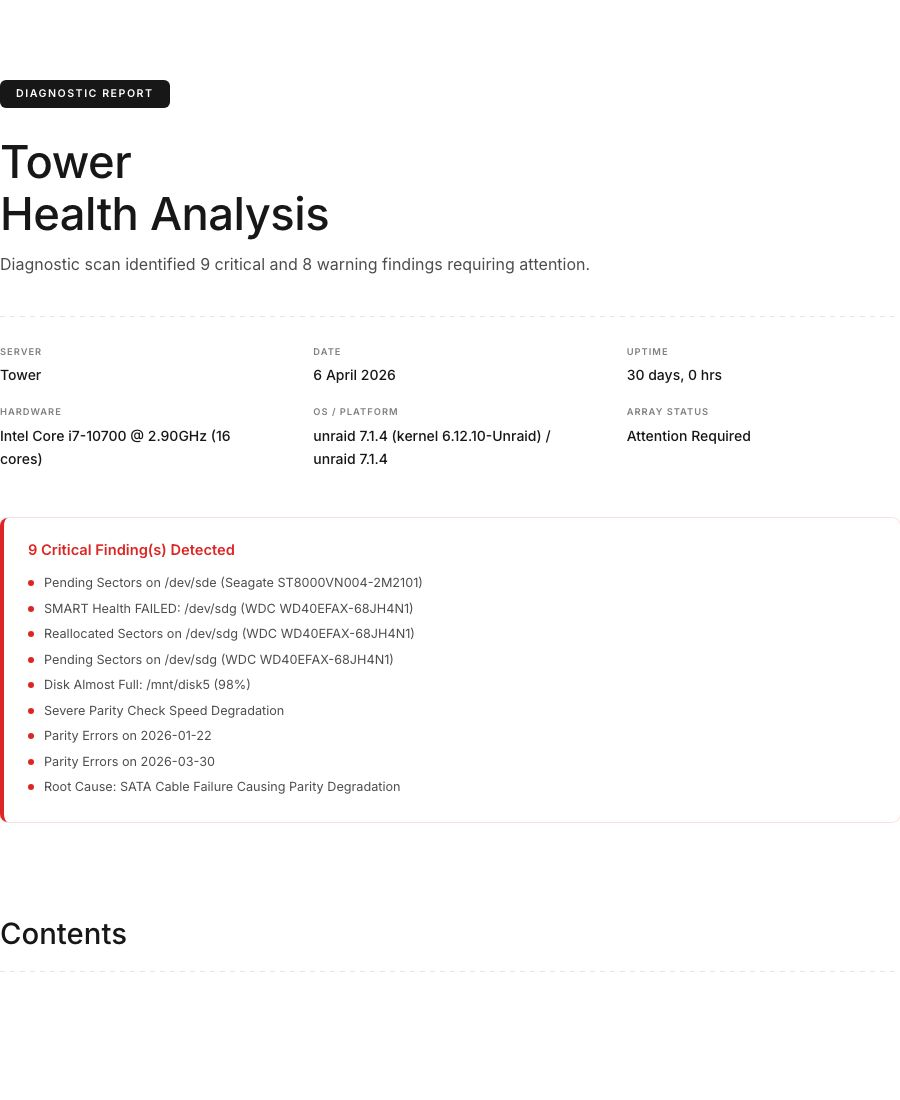
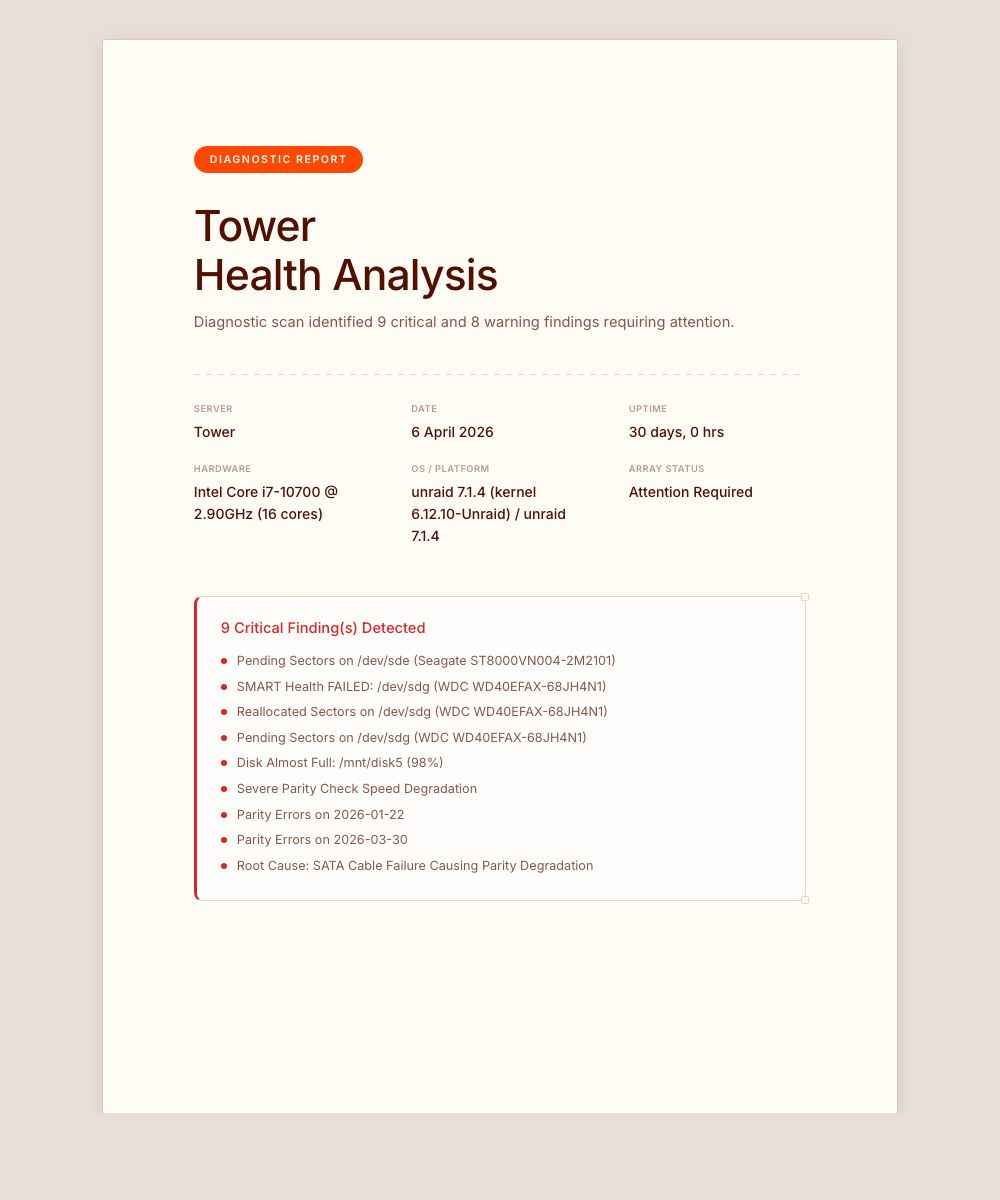
Report export: CF Workers design system overhaul
- Background: warm off-white #FFFBF5 (CF Workers palette)
- Colors: CF orange accent, warm brown text #521000, tan borders #EBD5C1
- Finding cards: NO left-border slit, full CF border with corner brackets,
  severity shown as inline rounded pill badge in header row
- Tables: warm header bg #FEF7ED, visible cell borders, CF border color
- A4 page preview: each section in a page div with proper margins (28mm/24mm),
  shadow, and warm gray outer background for realistic print preview
- All separators use CF Workers dashed border pattern (12px dash)
- Code blocks use CF Workers dark warm tone (#1a1209)
- Cover badge uses CF orange rounded pill instead of dark rectangle
- Print mode strips page wrapper for clean PDF output

diff --git a/internal/api/report.go b/internal/api/report.go
@@ -221,33 +221,55 @@ func GenerateReport(snap *internal.Snapshot) string {
 	b.WriteString("</style>\n")
 	b.WriteString("</head>\n<body>\n")
 
+	// A4 page wrapper for screen preview
+	b.WriteString("<div class=\"page-container\">\n")
+
 	// ── Cover Page ───────────────────────────────────────────────────
+	b.WriteString("<div class=\"page\">\n")
 	writeCoverPage(&b, snap)
+	b.WriteString("</div>\n")
 
 	// ── Table of Contents ────────────────────────────────────────────
+	b.WriteString("<div class=\"page\">\n")
 	writeTOC(&b, snap)
+	b.WriteString("</div>\n")
 
 	// ── System Overview ──────────────────────────────────────────────
+	b.WriteString("<div class=\"page\">\n")
 	writeSystemOverview(&b, snap)
+	b.WriteString("</div>\n")
 
 	// ── Findings ─────────────────────────────────────────────────────
+	b.WriteString("<div class=\"page\">\n")
 	writeFindings(&b, snap)
+	b.WriteString("</div>\n")
 
 	// ── Drive Health & SMART ─────────────────────────────────────────
+	b.WriteString("<div class=\"page\">\n")
 	writeSMART(&b, snap)
+	b.WriteString("</div>\n")
 
 	// ── Docker & Application Analysis ────────────────────────────────
+	b.WriteString("<div class=\"page\">\n")
 	writeDocker(&b, snap)
+	b.WriteString("</div>\n")
 
 	// ── Parity Analysis ──────────────────────────────────────────────
+	b.WriteString("<div class=\"page\">\n")
 	writeParity(&b, snap)
+	b.WriteString("</div>\n")
 
 	// ── Recommended Actions ──────────────────────────────────────────
+	b.WriteString("<div class=\"page\">\n")
 	writeActions(&b, snap)
+	b.WriteString("</div>\n")
 
 	// ── Footer ───────────────────────────────────────────────────────
+	b.WriteString("<div class=\"page\">\n")
 	writeFooter(&b, snap)
+	b.WriteString("</div>\n")
 
+	b.WriteString("</div>\n") // close .page-container
 	b.WriteString("</body>\n</html>")
 	return b.String()
 }
@@ -258,151 +280,160 @@ func GenerateReport(snap *internal.Snapshot) string {
 
 func writeCSS(b *strings.Builder) {
 	b.WriteString("@import url('https://fonts.googleapis.com/css2?family=Inter:wght@300;400;500;600;700;800&display=swap');\n")
-	b.WriteString("@page { size: A4; margin: 22mm 20mm 28mm 20mm; }\n")
+	b.WriteString("@page { size: A4; margin: 20mm; }\n")
 	b.WriteString("*, *::before, *::after { box-sizing: border-box; margin: 0; padding: 0; }\n")
 
-	// Clean theme palette — matching app's Clean theme + CF Workers design system
+	// CF Workers Design System palette
 	b.WriteString(":root {\n")
-	b.WriteString("  --text: #171717; --text-muted: #4d4d4d; --text-subtle: #808080; --text-faint: #b3b3b3;\n")
-	b.WriteString("  --bg: #ffffff; --bg-card: #ffffff; --bg-hover: #fafafa;\n")
-	b.WriteString("  --border: rgba(0,0,0,0.08); --border-solid: #e5e5e5;\n")
-	b.WriteString("  --red: #dc2626; --red-bg: rgba(220,38,38,0.06); --red-border: rgba(220,38,38,0.15);\n")
-	b.WriteString("  --amber: #d97706; --amber-bg: rgba(217,119,6,0.06); --amber-border: rgba(217,119,6,0.15);\n")
-	b.WriteString("  --green: #16a34a; --green-bg: rgba(22,163,74,0.06); --green-border: rgba(22,163,74,0.15);\n")
-	b.WriteString("  --blue: #0072f5; --blue-bg: rgba(0,114,245,0.06); --blue-border: rgba(0,114,245,0.15);\n")
+	b.WriteString("  --cf-orange: #FF4801;\n")
+	b.WriteString("  --cf-orange-hover: #FF7038;\n")
+	b.WriteString("  --cf-orange-light: rgba(255, 72, 1, 0.08);\n")
+	b.WriteString("  --cf-text: #521000;\n")
+	b.WriteString("  --cf-text-muted: rgba(82, 16, 0, 0.7);\n")
+	b.WriteString("  --cf-text-subtle: rgba(82, 16, 0, 0.4);\n")
+	b.WriteString("  --cf-bg: #FFFBF5;\n")
+	b.WriteString("  --cf-bg-card: #FFFDFB;\n")
+	b.WriteString("  --cf-bg-hover: #FEF7ED;\n")
+	b.WriteString("  --cf-border: #EBD5C1;\n")
+	b.WriteString("  --cf-border-light: rgba(235, 213, 193, 0.5);\n")
+	b.WriteString("  --red: #dc2626; --amber: #d97706; --green: #16a34a; --blue: #0072f5;\n")
 	b.WriteString("}\n")
 
-	// Body — Clean theme
-	b.WriteString("body { font-family: 'Inter', -apple-system, BlinkMacSystemFont, 'Segoe UI', sans-serif; font-size: 9.5pt; color: var(--text); background: var(--bg); line-height: 1.65; -webkit-font-smoothing: antialiased; }\n")
+	// Body — CF Workers warm background
+	b.WriteString("body { font-family: 'Inter', -apple-system, BlinkMacSystemFont, 'Segoe UI', sans-serif; font-size: 9.5pt; color: var(--cf-text); background: #e8e0d8; line-height: 1.6; -webkit-font-smoothing: antialiased; }\n")
+
+	// ── A4 page preview (screen only) ──
+	b.WriteString(".page-container { display: flex; flex-direction: column; align-items: center; padding: 40px 0; gap: 40px; }\n")
+	b.WriteString(".page { background: var(--cf-bg); width: 210mm; min-height: 297mm; padding: 28mm 24mm; box-shadow: 0 2px 20px rgba(82,16,0,0.12), 0 0 0 1px rgba(82,16,0,0.06); border-radius: 2px; position: relative; }\n")
 
 	// Page numbers (print)
-	b.WriteString("@page { @bottom-center { font-family: 'Inter', sans-serif; font-size: 7.5pt; color: var(--text-subtle); content: 'Page ' counter(page) ' of ' counter(pages); } }\n")
+	b.WriteString("@page { @bottom-center { font-family: 'Inter', sans-serif; font-size: 7.5pt; color: var(--cf-text-subtle); content: 'Page ' counter(page) ' of ' counter(pages); } }\n")
 
-	// Dashed separator utility (CF Workers style)
-	b.WriteString(".dashed-sep { height: 1px; background-image: linear-gradient(to right, var(--border-solid) 50%, transparent 50%); background-size: 10px 1px; background-repeat: repeat-x; }\n")
+	// Dashed separator utility (CF Workers signature)
+	b.WriteString(".dashed-sep { height: 1px; background-image: linear-gradient(to right, var(--cf-border) 50%, transparent 50%); background-size: 12px 1px; background-repeat: repeat-x; }\n")
 
 	// ── Cover page ──
-	b.WriteString(".cover { page-break-after: always; padding: 80px 0 40px; }\n")
-	b.WriteString(".cover-badge { display: inline-block; font-size: 8pt; font-weight: 600; text-transform: uppercase; letter-spacing: 1.5px; background: var(--text); color: #fff; padding: 5px 16px; border-radius: 6px; margin-bottom: 28px; }\n")
-	b.WriteString(".cover h1 { font-size: 34pt; font-weight: 500; line-height: 1.15; color: var(--text); margin-bottom: 12px; white-space: pre-line; letter-spacing: -0.5px; }\n")
-	b.WriteString(".cover-subtitle { font-size: 12pt; font-weight: 400; color: var(--text-muted); margin-bottom: 40px; line-height: 1.5; }\n")
-	// Dashed top border on meta grid (CF Workers style)
+	b.WriteString(".cover { padding: 0; }\n")
+	b.WriteString(".cover-badge { display: inline-block; font-size: 8pt; font-weight: 600; text-transform: uppercase; letter-spacing: 1.5px; background: var(--cf-orange); color: #fff; padding: 5px 16px; border-radius: 9999px; margin-bottom: 28px; }\n")
+	b.WriteString(".cover h1 { font-size: 32pt; font-weight: 500; line-height: 1.15; color: var(--cf-text); margin-bottom: 12px; white-space: pre-line; letter-spacing: -0.02em; }\n")
+	b.WriteString(".cover-subtitle { font-size: 11pt; font-weight: 400; color: var(--cf-text-muted); margin-bottom: 40px; line-height: 1.6; }\n")
+	// Dashed top border on meta grid
 	b.WriteString(".cover-meta { display: grid; grid-template-columns: 1fr 1fr 1fr; gap: 18px 40px; padding-top: 28px; margin-bottom: 48px; position: relative; }\n")
-	b.WriteString(".cover-meta::before { content: ''; position: absolute; top: 0; left: 0; right: 0; height: 1px; background-image: linear-gradient(to right, var(--border-solid) 50%, transparent 50%); background-size: 10px 1px; background-repeat: repeat-x; }\n")
-	b.WriteString(".cover-meta-item { }\n")
-	b.WriteString(".cover-meta-label { font-size: 7pt; font-weight: 600; text-transform: uppercase; letter-spacing: 1px; color: var(--text-subtle); margin-bottom: 4px; }\n")
-	b.WriteString(".cover-meta-value { font-size: 10.5pt; font-weight: 500; color: var(--text); }\n")
+	b.WriteString(".cover-meta::before { content: ''; position: absolute; top: 0; left: 0; right: 0; height: 1px; background-image: linear-gradient(to right, var(--cf-border) 50%, transparent 50%); background-size: 12px 1px; background-repeat: repeat-x; }\n")
+	b.WriteString(".cover-meta-label { font-size: 7pt; font-weight: 600; text-transform: uppercase; letter-spacing: 0.05em; color: var(--cf-text-subtle); margin-bottom: 4px; }\n")
+	b.WriteString(".cover-meta-value { font-size: 10.5pt; font-weight: 500; color: var(--cf-text); }\n")
 
-	// Cover summary box — Clean theme card style with severity left border
-	b.WriteString(".cover-summary { padding: 20px 24px; border-radius: 8px; margin-top: 24px; position: relative; }\n")
-	b.WriteString(".cover-summary-critical { background: var(--bg); box-shadow: 0 0 0 1px var(--red-border); border-left: 4px solid var(--red); }\n")
-	b.WriteString(".cover-summary-warning { background: var(--bg); box-shadow: 0 0 0 1px var(--amber-border); border-left: 4px solid var(--amber); }\n")
-	b.WriteString(".cover-summary-healthy { background: var(--bg); box-shadow: 0 0 0 1px var(--green-border); border-left: 4px solid var(--green); }\n")
+	// Cover summary box — CF Workers card with border + corner brackets
+	b.WriteString(".cover-summary { padding: 20px 24px; border-radius: 8px; margin-top: 24px; border: 1px solid var(--cf-border); background: var(--cf-bg-card); position: relative; }\n")
+	// Corner brackets on summary box
+	b.WriteString(".cover-summary::before, .cover-summary::after { content: ''; position: absolute; width: 8px; height: 8px; border-radius: 1.5px; background: var(--cf-bg); border: 1px solid var(--cf-border); }\n")
+	b.WriteString(".cover-summary::before { top: -4px; right: -4px; }\n")
+	b.WriteString(".cover-summary::after { bottom: -4px; right: -4px; }\n")
+	b.WriteString(".cover-summary-critical { border-left: 3px solid var(--red); }\n")
+	b.WriteString(".cover-summary-warning { border-left: 3px solid var(--amber); }\n")
+	b.WriteString(".cover-summary-healthy { border-left: 3px solid var(--green); }\n")
 	b.WriteString(".cover-summary-critical h3 { color: var(--red); }\n")
 	b.WriteString(".cover-summary-warning h3 { color: var(--amber); }\n")
 	b.WriteString(".cover-summary-healthy h3 { color: var(--green); }\n")
-	b.WriteString(".cover-summary h3 { font-size: 11pt; font-weight: 600; margin-bottom: 10px; }\n")
+	b.WriteString(".cover-summary h3 { font-size: 11pt; font-weight: 500; margin-bottom: 10px; }\n")
 	b.WriteString(".cover-summary ul { list-style: none; padding-left: 0; font-size: 9.5pt; line-height: 1.7; }\n")
-	b.WriteString(".cover-summary li { margin-bottom: 4px; padding-left: 16px; position: relative; color: var(--text-muted); }\n")
+	b.WriteString(".cover-summary li { margin-bottom: 4px; padding-left: 16px; position: relative; color: var(--cf-text-muted); }\n")
 	b.WriteString(".cover-summary-critical li::before { content: ''; position: absolute; left: 0; top: 8px; width: 6px; height: 6px; border-radius: 50%; background: var(--red); }\n")
 	b.WriteString(".cover-summary-warning li::before { content: ''; position: absolute; left: 0; top: 8px; width: 6px; height: 6px; border-radius: 50%; background: var(--amber); }\n")
 	b.WriteString(".cover-summary-healthy li::before { content: ''; position: absolute; left: 0; top: 8px; width: 6px; height: 6px; border-radius: 50%; background: var(--green); }\n")
 
-	// ── Section headings — Clean theme: lighter weight, dashed bottom border ──
-	b.WriteString("h2.section-heading { font-size: 18pt; font-weight: 500; color: var(--text); padding-bottom: 14px; margin: 44px 0 24px; page-break-after: avoid; letter-spacing: -0.3px; position: relative; }\n")
-	b.WriteString("h2.section-heading::after { content: ''; position: absolute; bottom: 0; left: 0; right: 0; height: 1px; background-image: linear-gradient(to right, var(--border-solid) 50%, transparent 50%); background-size: 10px 1px; background-repeat: repeat-x; }\n")
-	b.WriteString("h2.section-heading .section-num { color: var(--text); margin-right: 6px; font-weight: 600; }\n")
-	// Severity badges — pill style matching Clean theme
-	b.WriteString("h2.section-heading .sev-badge { font-size: 7.5pt; font-weight: 600; text-transform: uppercase; padding: 2px 10px; border-radius: 9999px; margin-left: 14px; vertical-align: middle; letter-spacing: 0.4px; }\n")
-	b.WriteString(".sev-badge.sev-critical { background: var(--red-bg); color: var(--red); }\n")
-	b.WriteString(".sev-badge.sev-warning { background: var(--amber-bg); color: var(--amber); }\n")
-	b.WriteString(".sev-badge.sev-info { background: var(--blue-bg); color: var(--blue); }\n")
-	b.WriteString(".sev-badge.sev-ok { background: var(--green-bg); color: var(--green); }\n")
+	// ── Section headings — dashed bottom border ──
+	b.WriteString("h2.section-heading { font-size: 18pt; font-weight: 500; color: var(--cf-text); padding-bottom: 14px; margin: 0 0 24px; page-break-after: avoid; letter-spacing: -0.02em; position: relative; }\n")
+	b.WriteString("h2.section-heading::after { content: ''; position: absolute; bottom: 0; left: 0; right: 0; height: 1px; background-image: linear-gradient(to right, var(--cf-border) 50%, transparent 50%); background-size: 12px 1px; background-repeat: repeat-x; }\n")
+	b.WriteString("h2.section-heading .section-num { color: var(--cf-text); margin-right: 6px; font-weight: 500; }\n")
+	// Severity badges — CF Workers rounded pill, no left-border slit
+	b.WriteString("h2.section-heading .sev-badge { font-size: 7.5pt; font-weight: 600; text-transform: uppercase; padding: 3px 12px; border-radius: 9999px; margin-left: 14px; vertical-align: middle; letter-spacing: 0.04em; border: 1px solid; }\n")
+	b.WriteString(".sev-badge.sev-critical { background: rgba(220,38,38,0.08); color: var(--red); border-color: rgba(220,38,38,0.2); }\n")
+	b.WriteString(".sev-badge.sev-warning { background: rgba(217,119,6,0.08); color: var(--amber); border-color: rgba(217,119,6,0.2); }\n")
+	b.WriteString(".sev-badge.sev-info { background: rgba(0,114,245,0.08); color: var(--blue); border-color: rgba(0,114,245,0.2); }\n")
+	b.WriteString(".sev-badge.sev-ok { background: rgba(22,163,74,0.08); color: var(--green); border-color: rgba(22,163,74,0.2); }\n")
 
 	// Sub-headings
-	b.WriteString("h3.sub-heading { font-size: 12pt; font-weight: 600; color: var(--text); margin: 24px 0 14px; }\n")
+	b.WriteString("h3.sub-heading { font-size: 12pt; font-weight: 500; color: var(--cf-text); margin: 24px 0 14px; }\n")
 
-	// ── Tables — Clean theme style: light header, box-shadow border, rounded ──
-	b.WriteString(".table-wrap { margin-bottom: 24px; border-radius: 8px; overflow: hidden; box-shadow: 0 0 0 1px var(--border); }\n")
+	// ── Tables — CF Workers: border, light warm header, rounded ──
+	b.WriteString(".table-wrap { margin-bottom: 24px; border-radius: 8px; overflow: hidden; border: 1px solid var(--cf-border); }\n")
 	b.WriteString("table { width: 100%; border-collapse: collapse; font-size: 9pt; table-layout: auto; }\n")
-	b.WriteString("thead th { background: var(--bg-hover); color: var(--text-subtle); font-size: 7.5pt; font-weight: 500; text-transform: uppercase; letter-spacing: 0.5px; padding: 10px 12px; text-align: left; white-space: nowrap; border-bottom: 1px solid var(--border); }\n")
-	b.WriteString("tbody td { padding: 10px 12px; border-bottom: 1px solid rgba(0,0,0,0.04); font-size: 9pt; color: var(--text); }\n")
+	b.WriteString("thead th { background: var(--cf-bg-hover); color: var(--cf-text-muted); font-size: 7.5pt; font-weight: 500; text-transform: uppercase; letter-spacing: 0.05em; padding: 10px 14px; text-align: left; white-space: nowrap; border-bottom: 1px solid var(--cf-border); }\n")
+	b.WriteString("thead th:not(:last-child) { border-right: 1px solid var(--cf-border-light); }\n")
+	b.WriteString("tbody td { padding: 10px 14px; border-bottom: 1px solid var(--cf-border-light); font-size: 9pt; color: var(--cf-text-muted); }\n")
+	b.WriteString("tbody td:not(:last-child) { border-right: 1px solid var(--cf-border-light); }\n")
 	b.WriteString("tbody tr:last-child td { border-bottom: none; }\n")
-	b.WriteString(".table-dense { font-size: 8pt; }\n")
-	b.WriteString(".table-dense td, .table-dense th { padding: 8px 10px; }\n")
 	b.WriteString(".td-truncate { max-width: 160px; overflow: hidden; text-overflow: ellipsis; white-space: nowrap; }\n")
 
-	// ── Finding cards — Clean theme: white bg, box-shadow outline, corner brackets, severity left border ──
-	b.WriteString(".finding-card { border-radius: 8px; padding: 18px 22px; margin-bottom: 16px; page-break-inside: avoid; background: var(--bg); box-shadow: 0 0 0 1px var(--border); position: relative; }\n")
-	b.WriteString(".finding-card.sev-critical { border-left: 4px solid var(--red); }\n")
-	b.WriteString(".finding-card.sev-warning { border-left: 4px solid var(--amber); }\n")
-	b.WriteString(".finding-card.sev-info { border-left: 4px solid var(--blue); }\n")
-	b.WriteString(".finding-card.sev-ok { border-left: 4px solid var(--green); }\n")
-	// Corner brackets (CF Workers / Clean theme decorative element)
-	b.WriteString(".finding-card::before, .finding-card::after { content: ''; position: absolute; width: 7px; height: 7px; border-radius: 1.5px; background: var(--bg-hover); border: 1px solid var(--border-solid); }\n")
-	b.WriteString(".finding-card::before { top: -3px; right: -3px; }\n")
-	b.WriteString(".finding-card::after { bottom: -3px; right: -3px; }\n")
-	b.WriteString(".finding-title { font-size: 11pt; font-weight: 600; margin-bottom: 6px; color: var(--text); }\n")
-	b.WriteString(".finding-desc { font-size: 9.5pt; color: var(--text-muted); margin-bottom: 12px; line-height: 1.6; }\n")
-	b.WriteString(".finding-evidence { font-size: 8.5pt; color: var(--text-subtle); margin-bottom: 10px; }\n")
+	// ── Finding cards — CF Workers card: warm bg, full border, corner brackets, NO left-border slit ──
+	b.WriteString(".finding-card { border-radius: 8px; padding: 18px 22px; margin-bottom: 16px; page-break-inside: avoid; background: var(--cf-bg-card); border: 1px solid var(--cf-border); position: relative; }\n")
+	// Corner brackets (CF Workers signature)
+	b.WriteString(".finding-card::before, .finding-card::after { content: ''; position: absolute; width: 8px; height: 8px; border-radius: 1.5px; background: var(--cf-bg); border: 1px solid var(--cf-border); }\n")
+	b.WriteString(".finding-card::before { top: -4px; right: -4px; }\n")
+	b.WriteString(".finding-card::after { bottom: -4px; right: -4px; }\n")
+	b.WriteString(".finding-header { display: flex; align-items: center; gap: 10px; margin-bottom: 8px; }\n")
+	b.WriteString(".finding-title { font-size: 11pt; font-weight: 500; color: var(--cf-text); flex: 1; }\n")
+	b.WriteString(".finding-desc { font-size: 9.5pt; color: var(--cf-text-muted); margin-bottom: 12px; line-height: 1.6; }\n")
+	b.WriteString(".finding-evidence { font-size: 8.5pt; color: var(--cf-text-subtle); margin-bottom: 10px; }\n")
 	b.WriteString(".finding-evidence ul { padding-left: 18px; }\n")
 	b.WriteString(".finding-evidence li { margin-bottom: 3px; }\n")
-	b.WriteString(".finding-action { font-size: 9pt; font-weight: 500; color: var(--text-muted); padding-top: 10px; border-top: 1px solid rgba(0,0,0,0.06); }\n")
+	b.WriteString(".finding-action { font-size: 9pt; font-weight: 500; color: var(--cf-text-muted); padding-top: 10px; position: relative; }\n")
+	b.WriteString(".finding-action::before { content: ''; position: absolute; top: 0; left: 0; right: 0; height: 1px; background-image: linear-gradient(to right, var(--cf-border) 50%, transparent 50%); background-size: 10px 1px; background-repeat: repeat-x; }\n")
 
-	// ── Stats grid — Clean theme card style ──
+	// ── Stats grid — CF Workers card style ──
 	b.WriteString(".stats-grid { display: grid; grid-template-columns: 1fr 1fr 1fr 1fr; gap: 12px; margin-bottom: 28px; }\n")
-	b.WriteString(".stat-card { background: var(--bg); border-radius: 10px; padding: 18px 16px; text-align: center; box-shadow: 0 0 0 1px var(--border); }\n")
-	b.WriteString(".stat-value { font-size: 20pt; font-weight: 600; line-height: 1.2; color: var(--text); }\n")
-	b.WriteString(".stat-label { font-size: 7pt; font-weight: 500; text-transform: uppercase; letter-spacing: 0.8px; color: var(--text-subtle); margin-top: 6px; }\n")
+	b.WriteString(".stat-card { background: var(--cf-bg-card); border-radius: 10px; padding: 18px 16px; text-align: center; border: 1px solid var(--cf-border); }\n")
+	b.WriteString(".stat-value { font-size: 20pt; font-weight: 500; line-height: 1.2; color: var(--cf-text); }\n")
+	b.WriteString(".stat-label { font-size: 7pt; font-weight: 500; text-transform: uppercase; letter-spacing: 0.05em; color: var(--cf-text-subtle); margin-top: 6px; }\n")
 
-	// Log blocks
-	b.WriteString(".log-block { background: #1a1a1a; color: #e0e0e0; border-radius: 8px; padding: 14px 16px; font-family: 'SF Mono', 'Cascadia Code', 'Fira Code', monospace; font-size: 7.5pt; line-height: 1.8; overflow-x: auto; margin-bottom: 18px; }\n")
+	// Log blocks (dark code blocks like CF Workers)
+	b.WriteString(".log-block { background: #1a1209; color: #e0d4c8; border-radius: 12px; padding: 14px 16px; font-family: 'SF Mono', 'Cascadia Code', 'Fira Code', monospace; font-size: 7.5pt; line-height: 1.8; overflow-x: auto; margin-bottom: 18px; border: 1px solid rgba(235,213,193,0.15); }\n")
 	b.WriteString(".log-block .log-error { color: #fca5a5; }\n")
 	b.WriteString(".log-block .log-warning { color: #fde68a; }\n")
 
-	// ── Bar charts — Clean style with rounded pill bars ──
+	// ── Bar charts — rounded pill bars ──
 	b.WriteString(".bar-chart { margin-bottom: 24px; }\n")
 	b.WriteString(".bar-row { display: flex; align-items: center; margin-bottom: 8px; }\n")
-	b.WriteString(".bar-label { width: 100px; font-size: 8.5pt; font-weight: 500; color: var(--text); flex-shrink: 0; overflow: hidden; text-overflow: ellipsis; white-space: nowrap; }\n")
-	b.WriteString(".bar-track { flex: 1; height: 8px; background: #ebebeb; border-radius: 9999px; overflow: hidden; }\n")
+	b.WriteString(".bar-label { width: 100px; font-size: 8.5pt; font-weight: 500; color: var(--cf-text); flex-shrink: 0; overflow: hidden; text-overflow: ellipsis; white-space: nowrap; }\n")
+	b.WriteString(".bar-track { flex: 1; height: 8px; background: var(--cf-border-light); border-radius: 9999px; overflow: hidden; }\n")
 	b.WriteString(".bar-fill { height: 100%; border-radius: 9999px; }\n")
-	b.WriteString(".bar-value { width: 50px; font-size: 8.5pt; font-weight: 600; text-align: right; color: var(--text-muted); flex-shrink: 0; margin-left: 10px; }\n")
+	b.WriteString(".bar-value { width: 50px; font-size: 8.5pt; font-weight: 500; text-align: right; color: var(--cf-text-muted); flex-shrink: 0; margin-left: 10px; }\n")
 
 	// Value color classes
 	b.WriteString(".val-bad { color: var(--red); font-weight: 600; }\n")
 	b.WriteString(".val-warn { color: var(--amber); font-weight: 500; }\n")
 	b.WriteString(".val-good { color: var(--green); font-weight: 500; }\n")
 
-	// ── TOC — dashed separators (CF Workers style) ──
-	b.WriteString(".toc { page-break-after: always; padding-top: 48px; }\n")
-	b.WriteString(".toc h2 { font-size: 22pt; font-weight: 500; color: var(--text); margin-bottom: 28px; padding-bottom: 14px; position: relative; }\n")
-	b.WriteString(".toc h2::after { content: ''; position: absolute; bottom: 0; left: 0; right: 0; height: 1px; background-image: linear-gradient(to right, var(--border-solid) 50%, transparent 50%); background-size: 10px 1px; background-repeat: repeat-x; }\n")
+	// ── TOC — dashed separators ──
+	b.WriteString(".toc { padding: 0; }\n")
+	b.WriteString(".toc h2 { font-size: 22pt; font-weight: 500; color: var(--cf-text); margin-bottom: 28px; padding-bottom: 14px; position: relative; }\n")
+	b.WriteString(".toc h2::after { content: ''; position: absolute; bottom: 0; left: 0; right: 0; height: 1px; background-image: linear-gradient(to right, var(--cf-border) 50%, transparent 50%); background-size: 12px 1px; background-repeat: repeat-x; }\n")
 	b.WriteString(".toc-list { list-style: none; padding: 0; }\n")
 	b.WriteString(".toc-item { display: flex; align-items: center; padding: 14px 0; font-size: 10.5pt; position: relative; }\n")
-	b.WriteString(".toc-item + .toc-item::before { content: ''; position: absolute; top: 0; left: 0; right: 0; height: 1px; background-image: linear-gradient(to right, var(--border-solid) 50%, transparent 50%); background-size: 10px 1px; background-repeat: repeat-x; }\n")
-	b.WriteString(".toc-num { font-weight: 500; color: var(--text); width: 30px; flex-shrink: 0; }\n")
-	b.WriteString(".toc-title { flex: 1; font-weight: 500; color: var(--text-muted); }\n")
+	b.WriteString(".toc-item + .toc-item::before { content: ''; position: absolute; top: 0; left: 0; right: 0; height: 1px; background-image: linear-gradient(to right, var(--cf-border) 50%, transparent 50%); background-size: 12px 1px; background-repeat: repeat-x; }\n")
+	b.WriteString(".toc-num { font-weight: 500; color: var(--cf-text); width: 30px; flex-shrink: 0; }\n")
+	b.WriteString(".toc-title { flex: 1; font-weight: 500; color: var(--cf-text-muted); }\n")
 	b.WriteString(".toc-badge { margin-left: 10px; }\n")
 
-	// Section page break
-	b.WriteString(".section { page-break-before: auto; }\n")
-	b.WriteString(".section-break { page-break-before: always; }\n")
+	// Section
+	b.WriteString(".section { }\n")
 
 	// Action table priority
-	b.WriteString(".priority-cell { font-weight: 600; }\n")
+	b.WriteString(".priority-cell { font-weight: 500; }\n")
 
 	// Callout box (CF Workers blockquote style)
-	b.WriteString(".callout { background: var(--bg); border-left: 3px solid var(--text); border-radius: 0 8px 8px 0; padding: 14px 18px; margin: 16px 0; font-size: 9pt; color: var(--text-muted); line-height: 1.6; box-shadow: 0 0 0 1px var(--border); }\n")
-	b.WriteString(".callout-warn { border-left-color: var(--amber); }\n")
-	b.WriteString(".callout-danger { border-left-color: var(--red); }\n")
+	b.WriteString(".callout { background: rgba(255,72,1,0.04); border-left: 3px solid var(--cf-orange); border-radius: 0 8px 8px 0; padding: 14px 18px; margin: 16px 0; font-size: 9pt; color: var(--cf-text); line-height: 1.6; }\n")
 
-	// Print rules
+	// ── Print rules ──
 	b.WriteString("@media print {\n")
+	b.WriteString("  body { background: var(--cf-bg); }\n")
+	b.WriteString("  .page-container { padding: 0; gap: 0; }\n")
+	b.WriteString("  .page { width: auto; min-height: auto; box-shadow: none; padding: 0; border-radius: 0; }\n")
 	b.WriteString("  body { -webkit-print-color-adjust: exact; print-color-adjust: exact; }\n")
 	b.WriteString("  .finding-card { break-inside: avoid; }\n")
 	b.WriteString("  .table-wrap { break-inside: avoid; }\n")
 	b.WriteString("  .stats-grid { break-inside: avoid; }\n")
-	b.WriteString("  .section-break { break-before: page; }\n")
 	b.WriteString("}\n")
 }
 
@@ -714,7 +745,7 @@ func writeFindings(b *strings.Builder, snap *internal.Snapshot) {
 	sorted := groupFindings(snap.Findings)
 
 	sectionNum := 2
-	b.WriteString("<div class=\"section section-break\">\n")
+	b.WriteString("<div class=\"section\">\n")
 
 	// Determine highest severity badge
 	highestSev := internal.SeverityOK
@@ -740,9 +771,11 @@ func writeFindings(b *strings.Builder, snap *internal.Snapshot) {
 
 	for _, f := range sorted {
 		cls := severityClass(f.Severity)
-		b.WriteString(fmt.Sprintf("  <div class=\"finding-card %s\">\n", cls))
-		b.WriteString(fmt.Sprintf("    <div class=\"finding-title\">%s <span class=\"sev-badge %s\">%s</span></div>\n",
-			escHTML(f.Title), cls, escHTML(severityLabel(f.Severity))))
+		b.WriteString("  <div class=\"finding-card\">\n")
+		b.WriteString("    <div class=\"finding-header\">\n")
+		b.WriteString(fmt.Sprintf("      <span class=\"sev-badge %s\">%s</span>\n", cls, escHTML(severityLabel(f.Severity))))
+		b.WriteString(fmt.Sprintf("      <span class=\"finding-title\">%s</span>\n", escHTML(f.Title)))
+		b.WriteString("    </div>\n")
 		b.WriteString(fmt.Sprintf("    <div class=\"finding-desc\">%s</div>\n", escHTML(f.Description)))
 
 		if len(f.Evidence) > 0 {
@@ -771,7 +804,7 @@ func writeSMART(b *strings.Builder, snap *internal.Snapshot) {
 		return
 	}
 
-	b.WriteString("<div class=\"section section-break\">\n")
+	b.WriteString("<div class=\"section\">\n")
 	b.WriteString("  <h2 class=\"section-heading\"><span class=\"section-num\">3</span>Drive Health &amp; SMART Analysis</h2>\n")
 
 	b.WriteString("  <div class=\"table-wrap\"><table>\n")
@@ -873,7 +906,7 @@ func writeDocker(b *strings.Builder, snap *internal.Snapshot) {
 		return
 	}
 
-	b.WriteString("<div class=\"section section-break\">\n")
+	b.WriteString("<div class=\"section\">\n")
 	b.WriteString("  <h2 class=\"section-heading\"><span class=\"section-num\">4</span>Docker &amp; Application Analysis</h2>\n")
 
 	// Container table
@@ -934,7 +967,7 @@ func writeParity(b *strings.Builder, snap *internal.Snapshot) {
 		return
 	}
 
-	b.WriteString("<div class=\"section section-break\">\n")
+	b.WriteString("<div class=\"section\">\n")
 	b.WriteString("  <h2 class=\"section-heading\"><span class=\"section-num\">5</span>Parity Analysis</h2>\n")
 
 	b.WriteString("  <div class=\"table-wrap\"><table>\n")
@@ -984,7 +1017,7 @@ func writeActions(b *strings.Builder, snap *internal.Snapshot) {
 	// Sort by severity (critical first)
 	actionFindings = groupFindings(actionFindings)
 
-	b.WriteString("<div class=\"section section-break\">\n")
+	b.WriteString("<div class=\"section\">\n")
 	b.WriteString("  <h2 class=\"section-heading\"><span class=\"section-num\">6</span>Recommended Actions</h2>\n")
 
 	b.WriteString("  <div class=\"table-wrap\"><table>\n")
@@ -1030,11 +1063,11 @@ func writeActions(b *strings.Builder, snap *internal.Snapshot) {
 // ─────────────────────────────────────────────────────────────────────
 
 func writeFooter(b *strings.Builder, snap *internal.Snapshot) {
-	b.WriteString("<div class=\"section\" style=\"margin-top: 48px; padding-top: 24px; border-top: 3px solid var(--slate-200);\">\n")
-	b.WriteString("  <p style=\"font-size: 8.5pt; color: var(--slate-500); font-style: italic; margin-bottom: 16px; line-height: 1.6;\">")
-	b.WriteString(fmt.Sprintf("This report was generated from a read-only diagnostic session on %s. No changes were made to the system.",
+	// Dashed top border (CF Workers style)
+	b.WriteString("<div style=\"position: relative; padding-top: 24px;\">\n")
+	b.WriteString("  <div style=\"position: absolute; top: 0; left: 0; right: 0; height: 1px; background-image: linear-gradient(to right, var(--cf-border) 50%, transparent 50%); background-size: 12px 1px; background-repeat: repeat-x;\"></div>\n")
+	b.WriteString(fmt.Sprintf("  <p style=\"font-size: 8.5pt; color: var(--cf-text-subtle); font-style: italic; margin-bottom: 16px; line-height: 1.6;\">This report was generated from a read-only diagnostic session on %s. No changes were made to the system.</p>\n",
 		escHTML(snap.Timestamp.Format("2 January 2006"))))
-	b.WriteString("</p>\n")
 
 	// Data sources
 	sources := []string{}
@@ -1052,8 +1085,7 @@ func writeFooter(b *strings.Builder, snap *internal.Snapshot) {
 		sources = append(sources, "parity-checks.log")
 	}
 
-	b.WriteString(fmt.Sprintf("  <p style=\"font-size: 8pt; color: var(--slate-400); text-align: center;\">Data sources: %s.</p>\n",
+	b.WriteString(fmt.Sprintf("  <p style=\"font-size: 8pt; color: var(--cf-text-subtle); text-align: center;\">Data sources: %s.</p>\n",
 		escHTML(strings.Join(sources, ", "))))
-
 	b.WriteString("</div>\n")
 }
